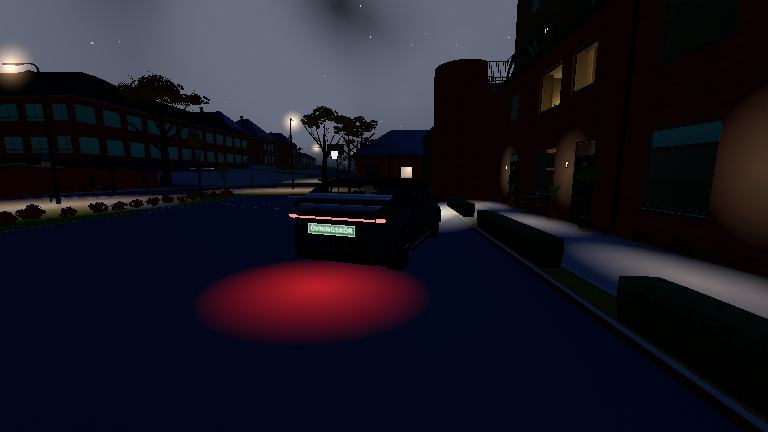
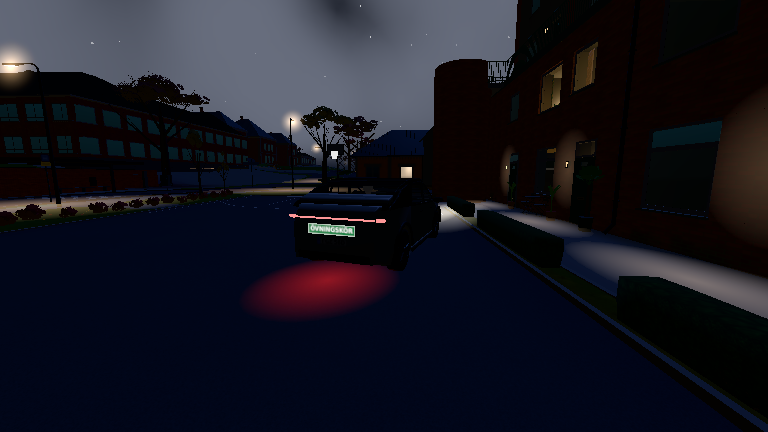
Car lights: the brake wash starts at the rear bumper, shorter, wider than the car and about half as strong; the reverse wash likewise. Refs #2184

Changed region(s): [[0.25, 0.6019, 0.5625, 0.8125]]

diff --git a/src/carlights.js b/src/carlights.js
@@ -28,8 +28,8 @@ export function buildCarGlow(length) {
   const add = (geo, color, key) => { geo.setAttribute('color', new THREE.Float32BufferAttribute(new Float32Array(geo.attributes.position.count * 3), 3)); parts.push({ geo, color: new THREE.Color(color), key }); };
   const nose = length / 2, tail = -length / 2;
   for (const s of [-1, 1]) add(poolGeometry(nose + K.beam.len / 2 - 0.4, s * K.beam.side, 1, 0, K.beam.len / 2, K.beam.width, flat, { lift: 0.04, rings: 6, segs: 20 }), K.beam.color, 'head');
-  add(poolGeometry(tail - K.red.len * 0.35, 0, 1, 0, K.red.len, K.red.width, flat, { lift: 0.045, rings: 5, segs: 20 }), K.red.color, 'brake');
-  add(poolGeometry(tail - K.white.len * 0.4, 0, 1, 0, K.white.len, K.white.width, flat, { lift: 0.05, rings: 5, segs: 20 }), K.white.color, 'reverse');
+  add(poolGeometry(tail - K.red.off, 0, 1, 0, K.red.len, K.red.width, flat, { lift: 0.045, rings: 5, segs: 20 }), K.red.color, 'brake');
+  add(poolGeometry(tail - K.white.off, 0, 1, 0, K.white.len, K.white.width, flat, { lift: 0.05, rings: 5, segs: 20 }), K.white.color, 'reverse');
   const mats = parts.map((p) => p.geo);
   const geometry = mergeParts(mats);
   const mesh = new THREE.Mesh(geometry, fadeGlowWithFog(glowMaterial(0xffffff)));

diff --git a/src/config.js b/src/config.js
@@ -10940,8 +10940,8 @@ export const CAR_LIGHTS = {
   fadeOn: 0.12, fadeOff: 0.35, // s to full / to nothing
   tailDay: 0.2, tailNight: 1.2, tailBrake: 4, // the tail lamps' emissive intensity (was 0.2 / 1.2): day, night, braking
   beam: { len: 9, width: 1.5, side: 0.62, color: 0xfff1cf, peak: 0.34 }, // two forward lobes (m): length, half width, lateral offset
-  red: { len: 1.4, width: 1.6, color: 0xff2418, peak: 0.5 }, // the red pool behind (m)
-  white: { len: 2.2, width: 1.4, color: 0xf4f6ff, peak: 0.6 }, // the reversing pool behind (m)
+  red: { len: 1.3, width: 1.05, off: 0.2, color: 0xff2418, peak: 0.28 }, // the red wash behind (m): half length, half width (a little wider than the car), centre behind the bumper; fades out from the bumper
+  white: { len: 2.0, width: 1.1, off: 0.3, color: 0xf4f6ff, peak: 0.4 }, // the reversing wash behind (m), same meaning
   reverseLamp: { y: 0.86, z: 0.5 }, // the two white lenses on the tailgate (m)
 };
 
